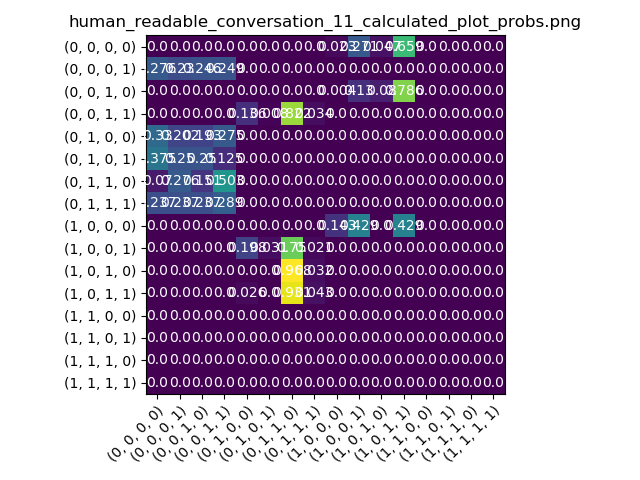
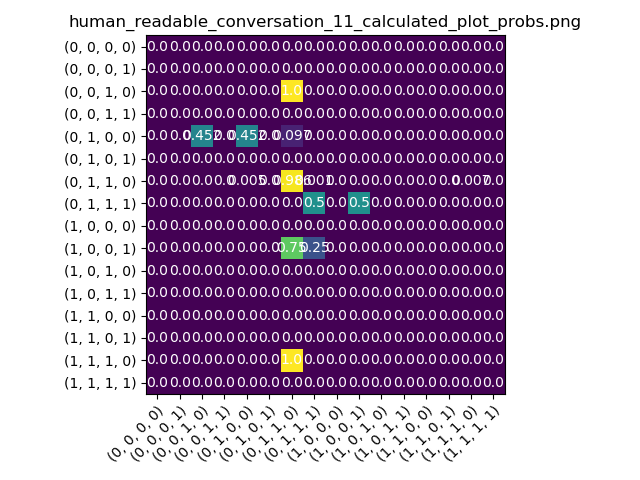
update

diff --git a/src/Mdp/at_high_model_components/at_high_policy_player.py b/src/Mdp/at_high_model_components/at_high_policy_player.py
@@ -132,7 +132,7 @@ class HighPolicyPlayer:
         #if we got here it means that all probabilities were 0
         if last_proba == 0:
             #go to random place
-            random_int = random.randint(0,len(current_state)-1)
+            random_int = random.randint(0,len(list_of_possible_actions)-1)
             return list_of_possible_actions[random_int][1]
 
         raise ValueError("no state was chosen, something went wrong")

diff --git a/src/mdp_const.py b/src/mdp_const.py
@@ -6,7 +6,7 @@ import settings
 class MdpConsts:
 
     # arbitrary
-    __MAX_CONTINUOUS_TIME_SEC = 10.0
+    __MAX_CONTINUOUS_TIME_SEC = 8.0
     # each step in data is like that
     __CONTINUOUS_TIME_STEP_SEC = 0.04
     TIME_SIZE = int(__MAX_CONTINUOUS_TIME_SEC / __CONTINUOUS_TIME_STEP_SEC)
